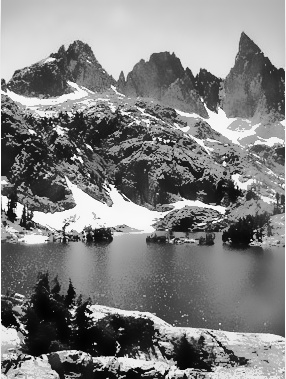
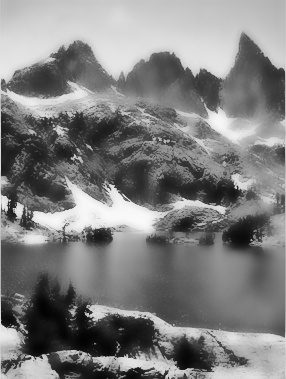
Integración con la interfaz

diff --git a/src/clases/ConvolutionServlet.java b/src/clases/ConvolutionServlet.java
@@ -10,21 +10,22 @@ import javax.servlet.http.HttpServletRequest;
 import javax.servlet.http.HttpServletResponse;
 
 import org.opencv.core.Core;
+import org.opencv.core.CvType;
 import org.opencv.core.Mat;
 import org.opencv.imgcodecs.Imgcodecs;
 import org.opencv.imgproc.Imgproc;
 
 /**
- * Servlet implementation class GaussFilterServlet
+ * Servlet implementation class ConvolutionServlet
  */
-@WebServlet("/GaussFilterServlet")
-public class GaussFilterServlet extends HttpServlet {
+@WebServlet("/ConvolutionServlet")
+public class ConvolutionServlet extends HttpServlet {
 	private static final long serialVersionUID = 1L;
-//    static{System.loadLibrary("C:\\Users\\Carolina\\Downloads\\Instaladores\\opencv\\build\\java\\x64\\opencv_java320.dll");}
+       
     /**
      * @see HttpServlet#HttpServlet()
      */
-    public GaussFilterServlet() {
+    public ConvolutionServlet() {
         super();
         // TODO Auto-generated constructor stub
     }
@@ -34,31 +35,42 @@ public class GaussFilterServlet extends HttpServlet {
 	 */
 	protected void doGet(HttpServletRequest request, HttpServletResponse response) throws ServletException, IOException {
 		// TODO Auto-generated method stub
-		response.setContentType("text/html;charset=UTF-8");
-		PrintWriter out = response.getWriter();
+	    response.setContentType("text/html;charset=UTF-8");
+	    PrintWriter out = response.getWriter();
+		response.getWriter().append("Served at: ").append(request.getContextPath());
 		String file_name = request.getParameter("file1");
-//		String desv_stand = request.getParameter("desvStand");
 		try {
-	         System.load("C:\\Users\\Carolina\\Downloads\\Instaladores\\opencv\\build\\java\\x64\\opencv_java320.dll");
-//	         System.load("C:\\Users\\Katerine\\Documents\\openCV\\opencv\\build\\java\\x64\\opencv_java2413.dll");
-	         
-	         Mat source = Imgcodecs.imread(file_name, Imgcodecs.CV_LOAD_IMAGE_GRAYSCALE);
-	         
+	         int kernelSize = 9;
+             System.load("C:\\Users\\Carolina\\Downloads\\Instaladores\\opencv\\build\\java\\x64\\opencv_java320.dll");
+             
+	         Mat source = Imgcodecs.imread("grayscale.jpg", Imgcodecs.CV_LOAD_IMAGE_GRAYSCALE);
 	         Mat destination = new Mat(source.rows(),source.cols(),source.type());
-	         org.opencv.core.Size size = new org.opencv.core.Size(11,45);
-	         Imgproc.GaussianBlur(source, destination, size, 2);
-			   
-			 int aparicion = file_name.indexOf(".");
-	         String name = file_name.substring(0, aparicion);
-	         String final_name = name + "GaussFilter.jpg";
-	        
-			 Imgproc.equalizeHist(source, destination);
-			 Imgcodecs.imwrite(final_name, destination);
-	      
+	         
+	         Mat kernel = new Mat(kernelSize,kernelSize, CvType.CV_32F){
+	            {
+	               put(0,0,-1);
+	               put(0,1,0);
+	               put(0,2,1);
+
+	               put(1,0-1);
+	               put(1,1,0);
+	               put(1,2,1);
+
+	               put(2,0,-1);
+	               put(2,1,0);
+	               put(2,2,1);
+	            }
+	         };  
+	         
+	         Imgproc.filter2D(source, destination, -1, kernel);
+	         Imgcodecs.imwrite("output.jpg", destination);
+	         
 	      } catch (Exception e) {
 	         System.out.println("Error: " + e.getMessage());
 	      }
-	}
+	   }
+	
+	   
 
 	/**
 	 * @see HttpServlet#doPost(HttpServletRequest request, HttpServletResponse response)

diff --git a/src/clases/BilateralServlet.java b/src/clases/BilateralServlet.java
@@ -18,13 +18,13 @@ import org.opencv.imgproc.Imgproc;
  * Servlet implementation class Bilateral
  */
 @WebServlet(name = "Bilateral", urlPatterns = {"/Bilateral"})
-public class Bilateral extends HttpServlet {
+public class BilateralServlet extends HttpServlet {
 	private static final long serialVersionUID = 1L;
        
     /**
      * @see HttpServlet#HttpServlet()
      */
-    public Bilateral() {
+    public BilateralServlet() {
         super();
         // TODO Auto-generated constructor stub
     }
@@ -38,23 +38,23 @@ public class Bilateral extends HttpServlet {
 		PrintWriter out = response.getWriter();
 		try {
 
-			String file_name = request.getParameter("name");
+			String file_name = request.getParameter("file1");
 			String intensity_dominance = request.getParameter("dominance");
 			String space = request.getParameter("space");
 //			int convInt_dominance = Integer.parseInt(intensity_dominance);
 //			int convSpace = Integer.parseInt(space);
-			System.loadLibrary(Core.NATIVE_LIBRARY_NAME );
+			System.load("C:\\Users\\Carolina\\Downloads\\Instaladores\\opencv\\build\\java\\x64\\opencv_java320.dll");
 	         
 	         Mat source = Imgcodecs.imread(file_name, Imgcodecs.CV_LOAD_IMAGE_GRAYSCALE);
 	         
 	         Mat destination = new Mat(source.rows(),source.cols(),source.type());
-	         Imgproc.bilateralFilter(source, destination, 1, 80, 1, Core.BORDER_DEFAULT);
+	         Imgproc.bilateralFilter(source, destination, 15, 80, 80, Core.BORDER_DEFAULT);
 			   
 			 int aparicion = file_name.indexOf(".");
 	         String name = file_name.substring(0, aparicion);
 	         String final_name = name + "BilateralFilter.jpg";
 	        
-			 Imgproc.equalizeHist(source, destination);
+//			 Imgproc.equalizeHist(source, destination);
 			 Imgcodecs.imwrite(final_name, destination);
 			
 	      } finally
